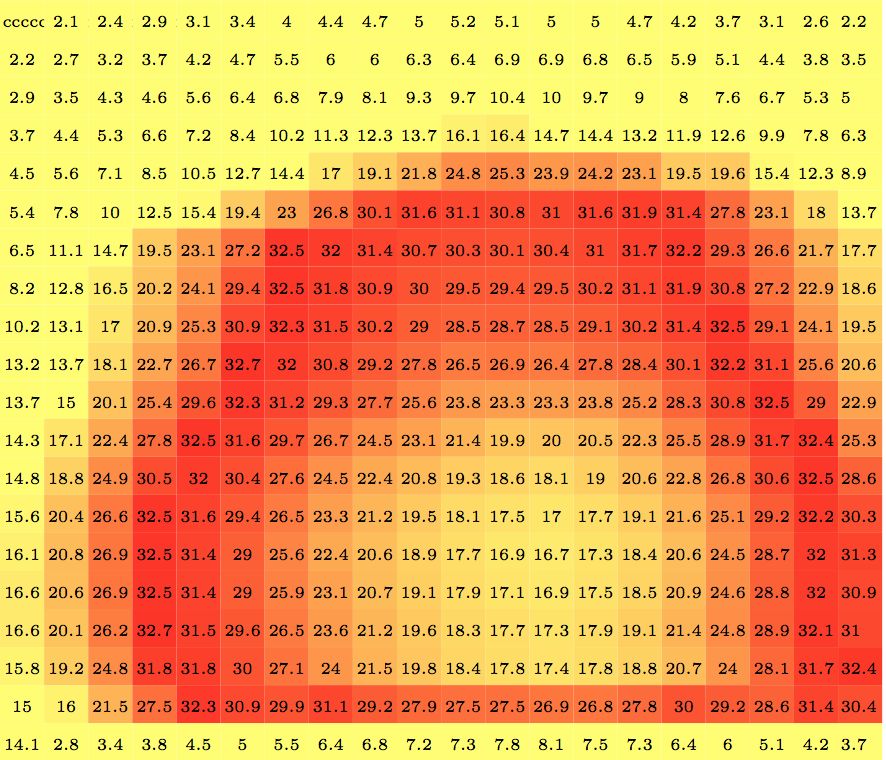
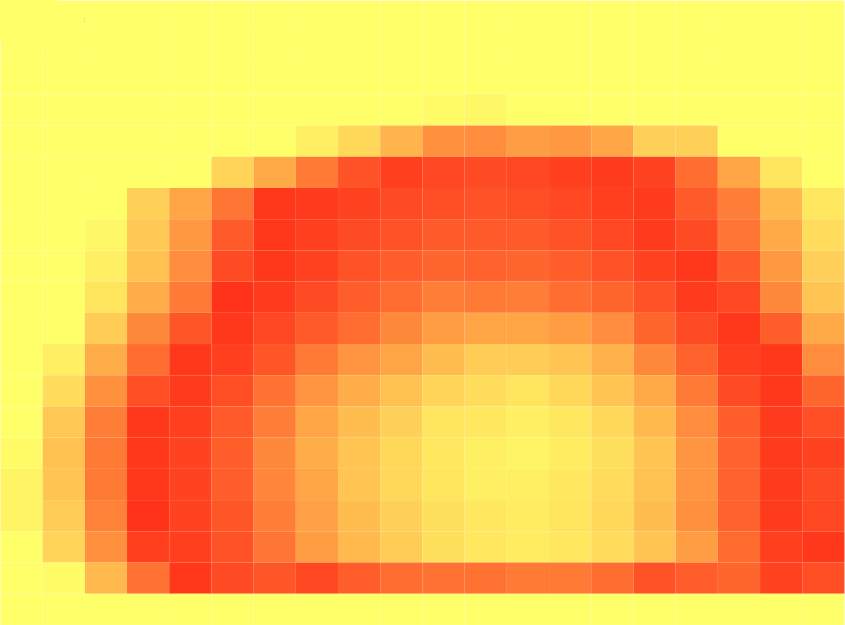
Heatmap normalization and tweaks

diff --git a/doc/tex/thesis/res/raw/heatmap.tex b/doc/tex/thesis/res/raw/heatmap.tex
@@ -79,32 +79,32 @@
 \setlength\tabcolsep{1 pt}
 \def\arraystretch{2}
  \centering
-                \pgfplotstabletypeset[color cells={min=15.0 , max=36.0}, /pgfplots/colormap={yellowred}{rgb255(0cm)=(255,255,105); rgb255(2cm)=(255,10,10)},font=\tiny,
+                \pgfplotstabletypeset[color cells={min=48.0 , max=110.0}, /pgfplots/colormap={yellowred}{rgb255(0cm)=(255,255,105); rgb255(2cm)=(255,10,10)},font=\tiny,
                      begin table = \begin{tabular}{>{\centering}p{0.5cm}>{\centering}p{0.5cm}>{\centering}p{0.5cm}>{\centering}p{0.5cm}>{\centering}p{0.5cm}>{\centering}p{0.5cm}>{\centering}p{0.5cm}>{\centering}p{0.5cm}>{\centering}p{0.5cm}>{\centering}p{0.5cm}>{\centering}p{0.5cm}>{\centering}p{0.5cm}>{\centering}p{0.5cm}>{\centering}p{0.5cm}>{\centering}p{0.5cm}>{\centering}p{0.5cm}>{\centering}p{0.5cm}>{\centering}p{0.5cm}>{\centering}p{0.5cm}p{0.5cm}},
     end table = \end{tabular},]
                 {
-0 2.1  2.4  2.9  3.1  3.4  4.0  4.4  4.7  5.0  5.2  5.1  5.0  5.0  4.7  4.2  3.7  3.1  2.6  2.2  
-2.2  2.7  3.2  3.7  4.2  4.7  5.5  6.0  6.0  6.3  6.4  6.9  6.9  6.8  6.5  5.9  5.1  4.4  3.8  3.5  
-2.9  3.5  4.3  4.6  5.6  6.4  6.8  7.9  8.1  9.3  9.7  10.4  10.0  9.7  9.0  8.0  7.6  6.7  5.3  5.0  
-3.7  4.4  5.3  6.6  7.2  8.4  10.2  11.3  12.3  13.7  16.1  16.4  14.7  14.4  13.2  11.9  12.6  9.9  7.8  6.3  
-4.5  5.6  7.1  8.5  10.5  12.7  14.4  17.0  19.1  21.8  24.8  25.3  23.9  24.2  23.1  19.5  19.6  15.4  12.3  8.9  
-5.4  7.8  10.0  12.5  15.4  19.4  23.0  26.8  30.1  31.6  31.1  30.8  31.0  31.6  31.9  31.4  27.8  23.1  18.0  13.7  
-6.5  11.1  14.7  19.5  23.1  27.2  32.5  32.0  31.4  30.7  30.3  30.1  30.4  31.0  31.7  32.2  29.3  26.6  21.7  17.7  
-8.2  12.8  16.5  20.2  24.1  29.4  32.5  31.8  30.9  30.0  29.5  29.4  29.5  30.2  31.1  31.9  30.8  27.2  22.9  18.6  
-10.2  13.1  17.0  20.9  25.3  30.9  32.3  31.5  30.2  29.0  28.5  28.7  28.5  29.1  30.2  31.4  32.5  29.1  24.1  19.5  
-13.2  13.7  18.1  22.7  26.7  32.7  32.0  30.8  29.2  27.8  26.5  26.9  26.4  27.8  28.4  30.1  32.2  31.1  25.6  20.6  
-13.7  15.0  20.1  25.4  29.6  32.3  31.2  29.3  27.7  25.6  23.8  23.3  23.3  23.8  25.2  28.3  30.8  32.5  29.0  22.9  
-14.3  17.1  22.4  27.8  32.5  31.6  29.7  26.7  24.5  23.1  21.4  19.9  20.0  20.5  22.3  25.5  28.9  31.7  32.4  25.3  
-14.8  18.8  24.9  30.5  32.0  30.4  27.6  24.5  22.4  20.8  19.3  18.6  18.1  19.0  20.6  22.8  26.8  30.6  32.5  28.6  
-15.6  20.4  26.6  32.5  31.6  29.4  26.5  23.3  21.2  19.5  18.1  17.5  17.0  17.7  19.1  21.6  25.1  29.2  32.2  30.3  
-16.1  20.8  26.9  32.5  31.4  29.0  25.6  22.4  20.6  18.9  17.7  16.9  16.7  17.3  18.4  20.6  24.5  28.7  32.0  31.3  
-16.6  20.6  26.9  32.5  31.4  29.0  25.9  23.1  20.7  19.1  17.9  17.1  16.9  17.5  18.5  20.9  24.6  28.8  32.0  30.9  
-16.6  20.1  26.2  32.7  31.5  29.6  26.5  23.6  21.2  19.6  18.3  17.7  17.3  17.9  19.1  21.4  24.8  28.9  32.1  31.0  
-15.8  19.2  24.8  31.8  31.8  30.0  27.1  24.0  21.5  19.8  18.4  17.8  17.4  17.8  18.8  20.7  24.0  28.1  31.7  32.4  
-15.0  16.0  21.5  27.5  32.3  30.9  29.9  31.1  29.2  27.9  27.5  27.5  26.9  26.8  27.8  30.0  29.2  28.6  31.4  30.4  
-14.1  2.8  3.4  3.8  4.5  5.0  5.5  6.4  6.8  7.2  7.3  7.8  8.1  7.5  7.3  6.4  6.0  5.1  4.2  3.7  
+5  6  7  9  9  10  12  13  14  15  16  16  15  15  14  13  11  9  8  7  
+7  8  10  11  13  14  17  18  18  19  20  21  21  21  20  18  16  13  12  11  
+9  11  13  14  17  20  21  24  25  28  30  32  31  30  28  24  23  20  16  15  
+11  13  16  20  22  26  31  35  38  42  49  50  45  44  40  36  39  30  24  19  
+14  17  22  26  32  39  44  52  58  67  76  77  73  74  71  60  60  47  38  27  
+17  24  31  38  47  59  70  82  92  97  95  94  95  97  98  96  85  71  55  42  
+20  34  45  60  71  83  99  98  96  94  93  92  93  95  97  98  90  81  66  54  
+25  39  50  62  74  90  99  97  94  92  90  90  90  92  95  98  94  83  70  57  
+31  40  52  64  77  94  99  96  92  89  87  88  87  89  92  96  99  89  74  60  
+40  42  55  69  82  100  98  94  89  85  81  82  81  85  87  92  98  95  78  63  
+42  46  61  78  91  99  95  90  85  78  73  71  71  73  77  87  94  99  89  70  
+44  52  69  85  99  97  91  82  75  71  65  61  61  63  68  78  88  97  99  77  
+45  57  76  93  98  93  84  75  69  64  59  57  55  58  63  70  82  94  99  87  
+48  62  81  99  97  90  81  71  65  60  55  54  52  54  58  66  77  89  98  93  
+49  64  82  99  96  89  78  69  63  58  54  52  51  53  56  63  75  88  98  96  
+51  63  82  99  96  89  79  71  63  58  55  52  52  54  57  64  75  88  98  94  
+51  61  80  100  96  91  81  72  65  60  56  54  53  55  58  65  76  88  98  95  
+48  59  76  97  97  92  83  73  66  61  56  54  53  54  57  63  73  86  97  99  
+46  49  66  84  99  94  91  95  89  85  84  84  82  82  85  92  89  87  96  93  
+43  9  10  12  14  15  17  20  21  22  22  24  25  23  22  20  18  16  13  11
 
                 }
 \end{figure}
 % section uppm_tt_fokuspunkt_fr_n_sp3 (end)
-% \end{document}
+\end{document}

diff --git a/doc/tex/thesis/genomforande.tex b/doc/tex/thesis/genomforande.tex
@@ -82,7 +82,7 @@
         För att testa algoritmen på solpanelen genomfördes en genomsökning av panelens solintag genererades en matris, för att undersöka ifall utformningen  av panelens fokuspunkt överensstämmer med projektets antagande i figur~\ref{fig:array}. Resultatet av denna sökning gav en annorlunda bild av hur fokuspunkten ser ut från panelen, vilket visas i figur~\ref{fig:array1}. För fullständig data av denna sökning, se bilaga~\ref{sec:heatmap}. Trots att fokuspunkten inte är utformad på samma sätt som förutspått, fungerar sökalgoritmen så pass att den riktar in sig till det högsta funna värdet, dock finns det inget exakt högsta värde utan algoritmen stannar i en punkt i den cirkel som panelen genererar, vilket ger ett högt värde ut även om det finns en sannolikhet att ett något högre värde existerar på motsatt sida av cirkeln, dock rör det sig om små värdeskillnader så dessa kan ligga inom felmarginalen.
         \begin{figure}
         \centering
-            \includegraphics[scale=0.25]{res/img/heatmap1}
+            \includegraphics[scale=0.125]{res/img/heatmap1}
             \caption{\label{fig:array1}Översikt av uppmätt fokuspunkt}
         \end{figure}
     % subsection steg_3 (end)

diff --git a/doc/tex/thesis/res/raw/reform.py b/doc/tex/thesis/res/raw/reform.py
@@ -17,10 +17,20 @@ for x in range(0, 20):
         string = float(string)/1000
         arr[19 - y][x] = string  # because +/- is inverted in source
 
+
+max_value = 0
+for row in arr:
+    if max(row) > max_value:
+        max_value = max(row)
+
 for row in arr:
     for value in row:
+        value = round(value/max_value * 100)
         file1.write(str(value) + "  ")
     file1.write('\n')
+    
 
 file0.close()
 file1.close()
+
+print(max_value)
